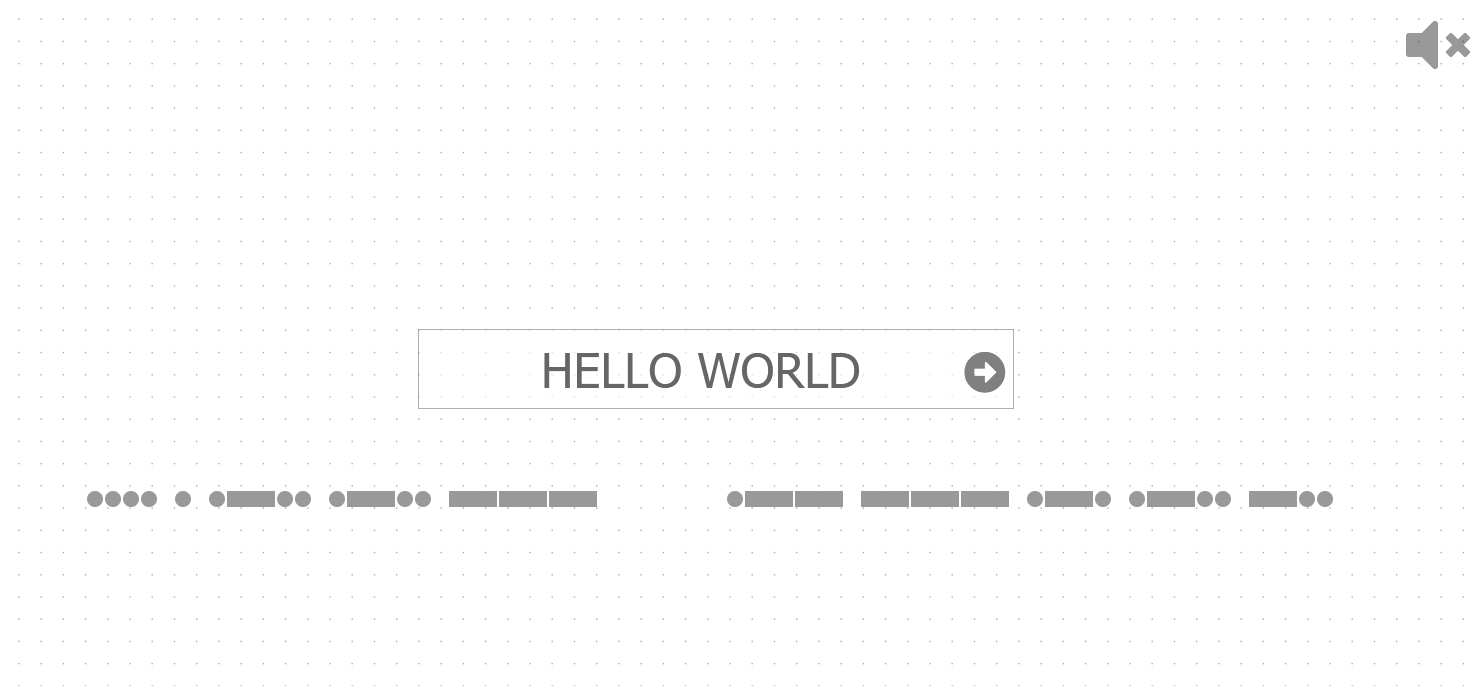
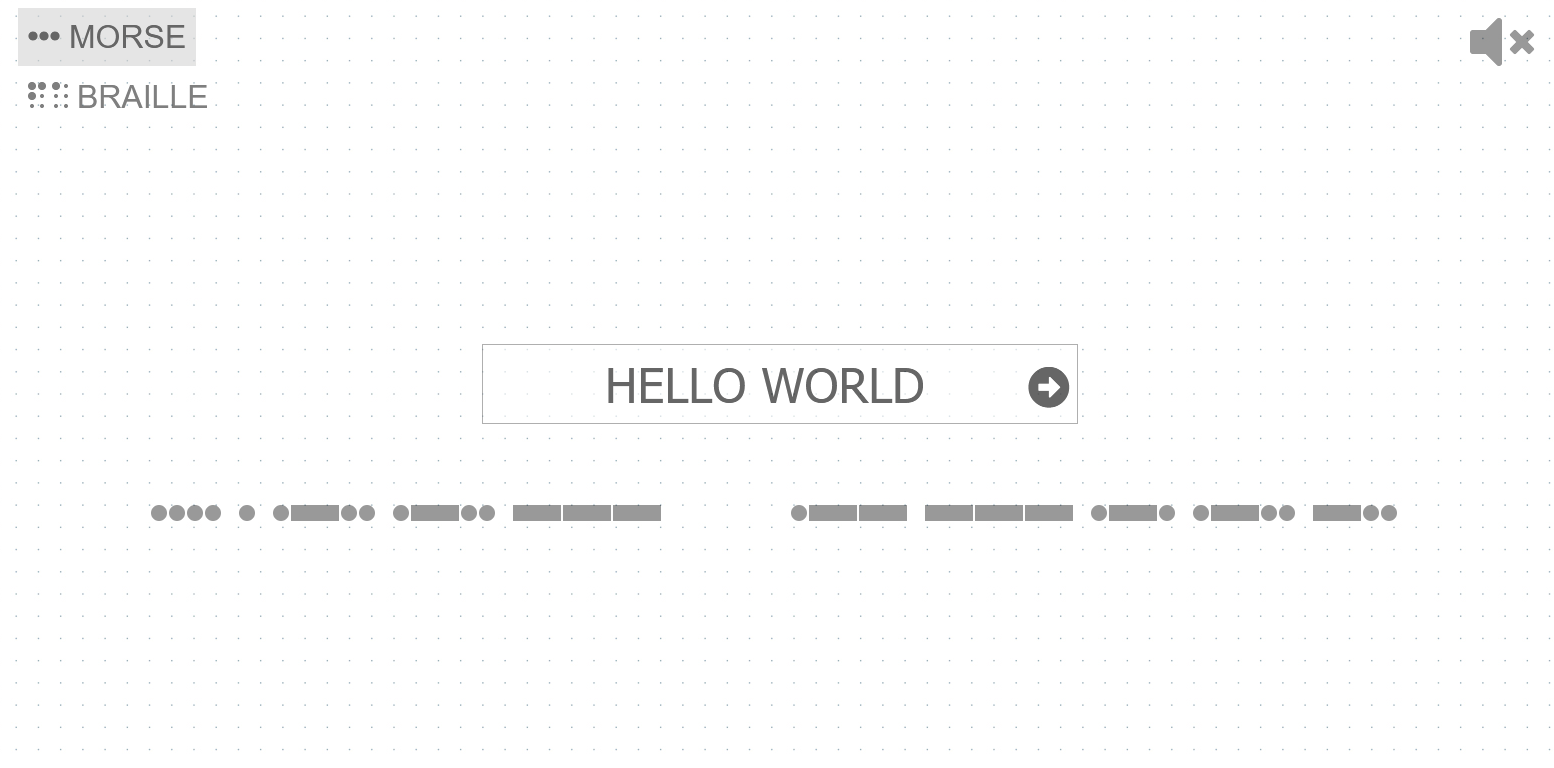
buttons fixes

diff --git a/BlazorMorse/BlazorMorse.Web/Pages/Index.razor.css b/BlazorMorse/BlazorMorse.Web/Pages/Index.razor.css
@@ -1,7 +1,7 @@
 .morse-icon, .braille-icon {
     position: absolute;
     left: 16px;
-    font-size: 300%;
+    font-size: 200%;
     opacity: 0.5;
 }
 
@@ -13,15 +13,17 @@
     top: 66px;
 }
 
-.icon-wrapper {
-    border-color: black;
-    border-width: 1px;
-    border-style: solid;
-    padding: 3px;
-    width: 4%;
+.icon-button {
+    padding: 10px;
     text-align: center;
+    cursor: pointer;
 }
 
-.icon-wrapper:hover {
-    border-width: 2px;
+.icon-button:hover {
+    background-color: lightgray;
+}
+
+.selected {
+    background-color: lightgray;
+    opacity: 0.6;
 }

diff --git a/BlazorMorse/BlazorMorse.Web/Shared/BrailleSymbol.razor.css b/BlazorMorse/BlazorMorse.Web/Shared/BrailleSymbol.razor.css
@@ -15,6 +15,7 @@
 .cell {
     display: table-cell;
     padding-inline: 3px;
+    font-size: 120%;
 }
 
 .cell-hidden {
